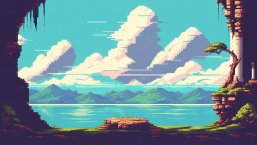
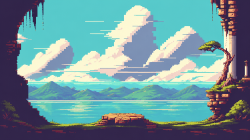
Training world: show the whole scene at its true pixel size; add a racing shell rowing on the horizon
Claude-Session: https://claude.ai/code/session_01TT9nh2LHULSaAs9YgLgihV

diff --git a/train/index.html b/train/index.html
@@ -38,8 +38,8 @@ canvas{position:absolute;left:50%;top:50%;transform:translate(-50%,-50%);image-r
 const cv = document.getElementById('c'), g = cv.getContext('2d');
 const still = matchMedia('(prefers-reduced-motion: reduce)').matches;
 const sound = window.HBSound;
-const BGS = 2, BG_W = 257, BG_H = 145, FRAME_W = 51, FRAME_H = 55, ANCHOR_X = 25, ANCHOR_Y = 22;
-const LAKE = {x0: 30, x1: 212, y0: 106, y1: 124};
+const BGS = 2, BG_W = 250, BG_H = 140, FRAME_W = 51, FRAME_H = 55, ANCHOR_X = 25, ANCHOR_Y = 22;
+const LAKE = {x0: 28, x1: 208, y0: 101, y1: 120};
 const bg = new Image(), hero = new Image();
 bg.src = '../assets/px-train.png'; hero.src = '../assets/px-hero.png';
 sound.bindButton(document.getElementById('soundBtn'));
@@ -59,7 +59,7 @@ addEventListener('pageshow', e => { if (e.persisted) { veil.classList.remove('on
 let W = 0, H = 0, k = 1, top = 0, left = 0;
 function fit() {
   const vw = innerWidth, vh = innerHeight;
-  k = Math.max(1, Math.min(Math.ceil(vh / (BG_H * BGS)), Math.floor(vw / 110)));
+  k = Math.max(vw / (BG_W * BGS), vh / (BG_H * BGS));
   W = Math.ceil(vw / k); H = Math.ceil(vh / k);
   cv.width = W; cv.height = H;
   cv.style.width = W * k + 'px'; cv.style.height = H * k + 'px';
@@ -96,7 +96,7 @@ function draw(now) {
     for (const s of streaks) {
       s.x += s.v * dt * (s.y % 2 ? 1 : -1);
       if (s.x > LAKE.x1 - s.len) s.x = LAKE.x0; if (s.x < LAKE.x0) s.x = LAKE.x1 - s.len;
-      if (s.y >= 116 && s.x > 100 && s.x < 152) continue;
+      if (s.y >= 112 && s.x > 98 && s.x < 152) continue;
       const a = .25 + .3 * (.5 + .5 * Math.sin(t * 1.6 + s.ph));
       g.fillStyle = `rgba(235,255,250,${a})`;
       g.fillRect(Math.round(wx(s.x)), wy(s.y), s.len * BGS, 1);
@@ -109,9 +109,25 @@ function draw(now) {
     }
   }
 
+  /* a racing shell far out on the lake, rowing slowly along the horizon */
+  {
+    const span = LAKE.x1 - LAKE.x0 - 24, cyc = 140, ph = still ? .3 : (t % cyc) / cyc, dir = ph < .5 ? 1 : -1;
+    const bx = Math.round(wx(LAKE.x0 + 12 + span * (ph < .5 ? ph * 2 : 2 - ph * 2))), by = wy(LAKE.y0) + 3;
+    const stroke = still ? 0 : Math.floor(t * 1.6) % 2;
+    if (!still) { g.fillStyle = 'rgba(240,255,252,.45)'; for (let i = 1; i <= 3; i++) g.fillRect(bx - dir * (8 + i * 4), by + 1, 3, 1); }
+    g.fillStyle = '#f6f4ee'; g.fillRect(bx - 7, by, 15, 1);
+    g.fillStyle = '#c0303a'; g.fillRect(bx - 6, by + 1, 13, 1);
+    g.fillStyle = '#2a2034'; g.fillRect(bx, by - 3, 1, 3);
+    g.fillStyle = '#e8b890'; g.fillRect(bx, by - 4, 1, 1);
+    g.fillStyle = '#6a4a30';
+    const o = stroke ? dir : -dir;
+    g.fillRect(bx + o, by - 1, 1, 1); g.fillRect(bx + o * 2, by, 1, 1); g.fillRect(bx + o * 3, by + 1, 1, 1);
+    if (!still && stroke) { g.fillStyle = 'rgba(255,255,255,.8)'; g.fillRect(bx + o * 4, by + 1, 1, 1); }
+  }
+
   /* hero */
-  const minX = 26, maxX = W - 34, minY = top + 30, maxY = wy(122) - 30;
-  if (px === null) { px = wx(BG_W / 2) + 6; py = wy(104) - 26; lastInput = t + 1; }
+  const minX = 26, maxX = W - 34, minY = top + 30, maxY = wy(118) - 30;
+  if (px === null) { px = wx(BG_W / 2) + 6; py = wy(100) - 26; lastInput = t + 1; }
   const ox = px, oy = py;
   let vx = 0, vy = 0;
   if (keys.has('arrowleft') || keys.has('a')) vx -= 1;
@@ -135,7 +151,8 @@ function draw(now) {
   /* his reflection on the lake when he flies low over it */
   if (hero.naturalWidth && py > wy(LAKE.y0) - 60 && px > wx(LAKE.x0) && px < wx(LAKE.x1)) {
     const ry = wy(LAKE.y0) * 2 - ky + 6;
-    g.save(); g.globalAlpha = .18; g.translate(kx, ry); g.scale(face, -1);
+    g.save(); g.beginPath(); g.rect(wx(LAKE.x0), wy(LAKE.y0) + 1, (LAKE.x1 - LAKE.x0) * BGS, (112 - LAKE.y0) * BGS); g.clip();
+    g.globalAlpha = .18; g.translate(kx, ry); g.scale(face, -1);
     g.drawImage(hero, 0, 0, FRAME_W, FRAME_H, -ANCHOR_X, -ANCHOR_Y, FRAME_W, FRAME_H);
     g.restore();
   }
